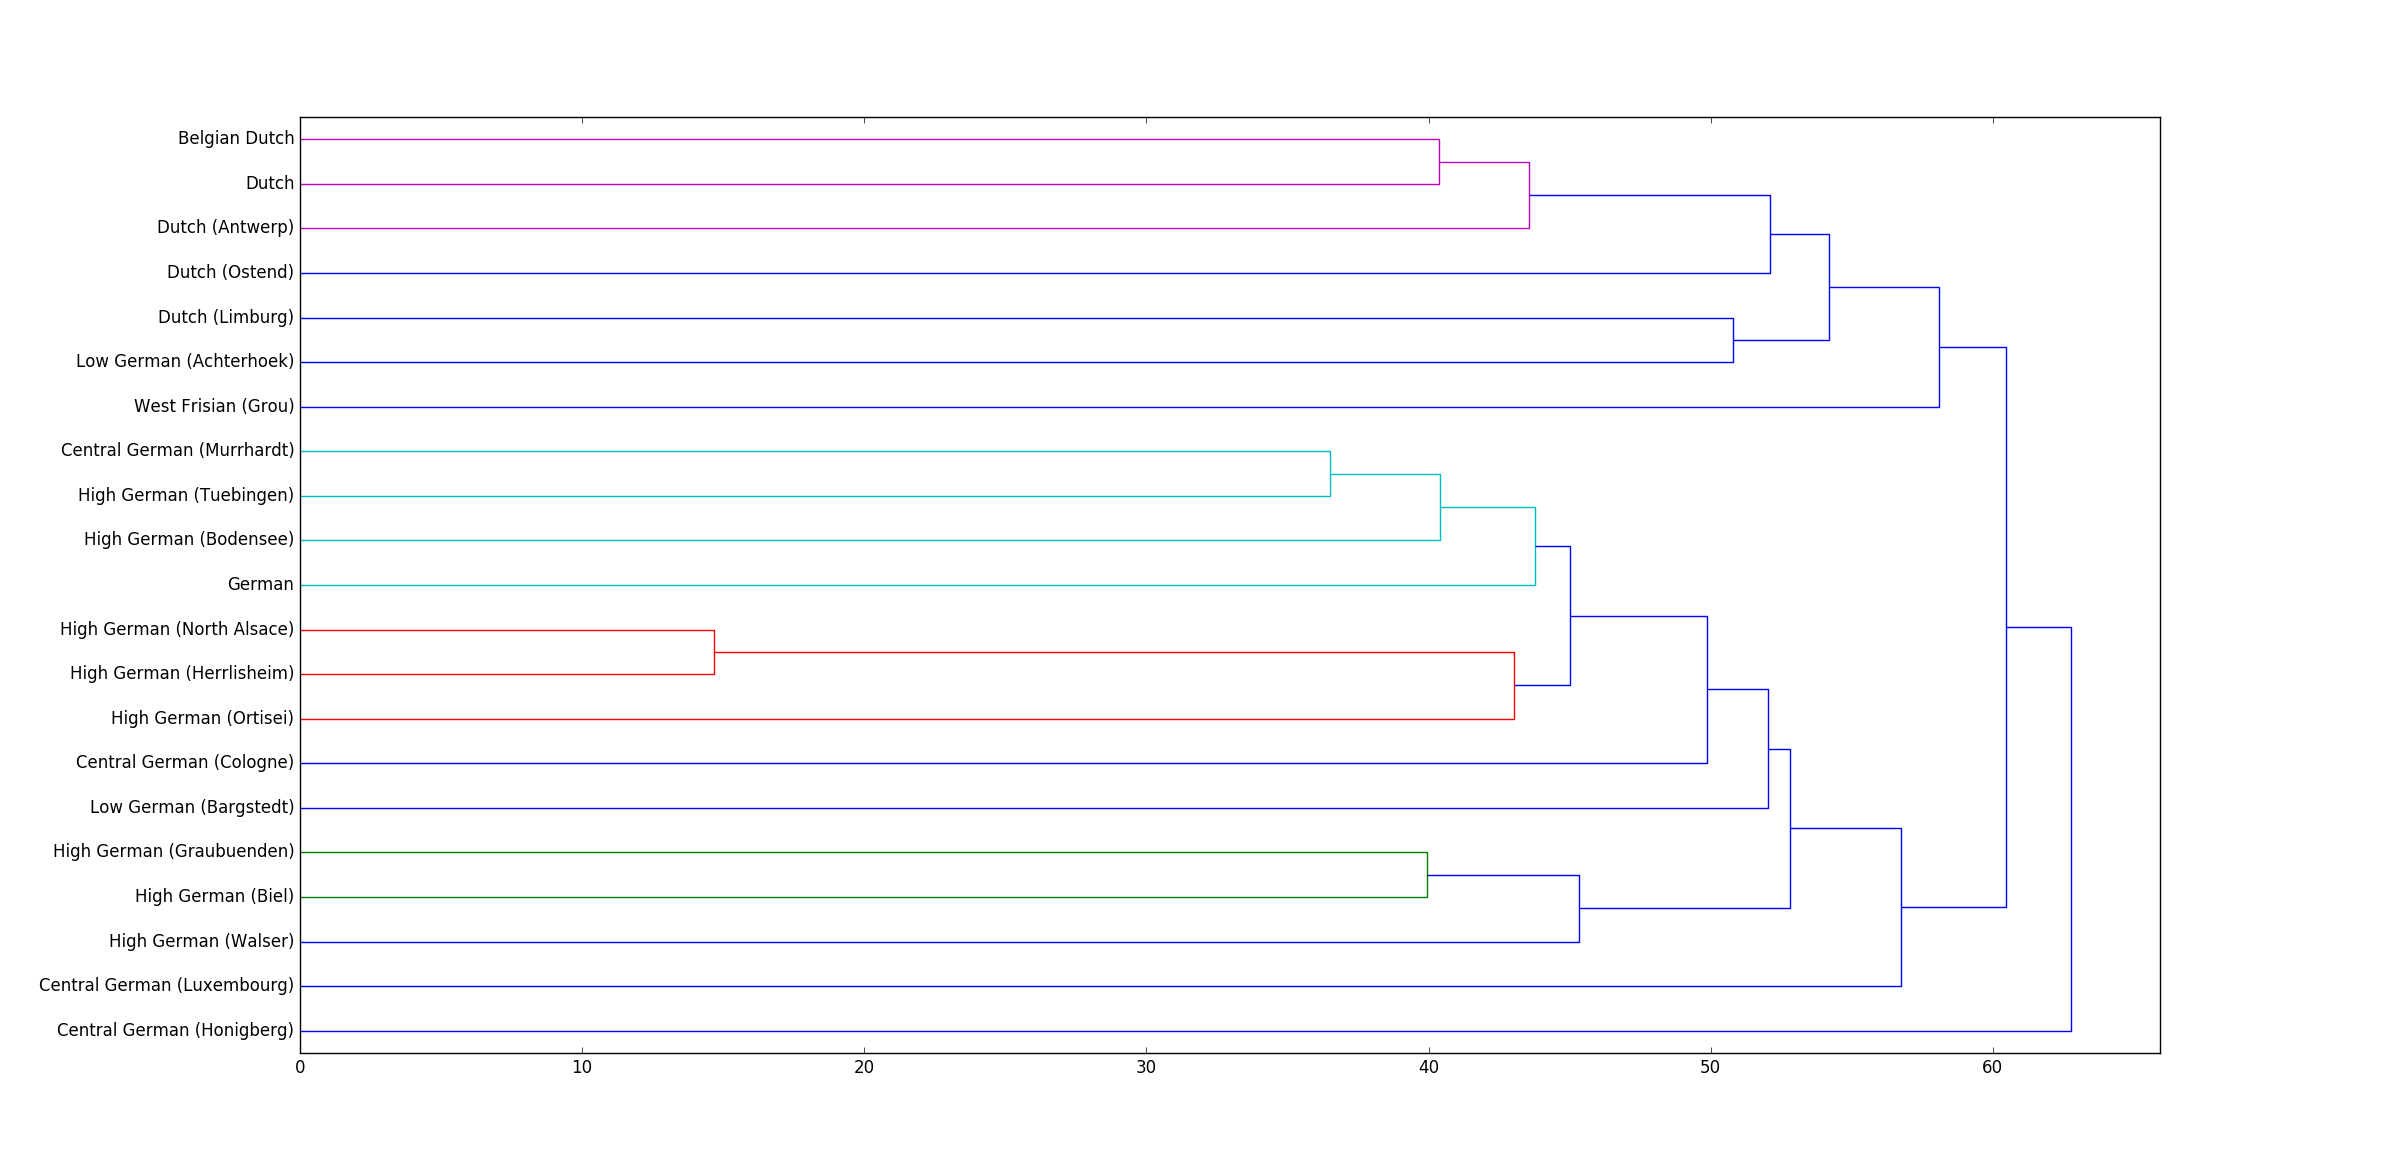
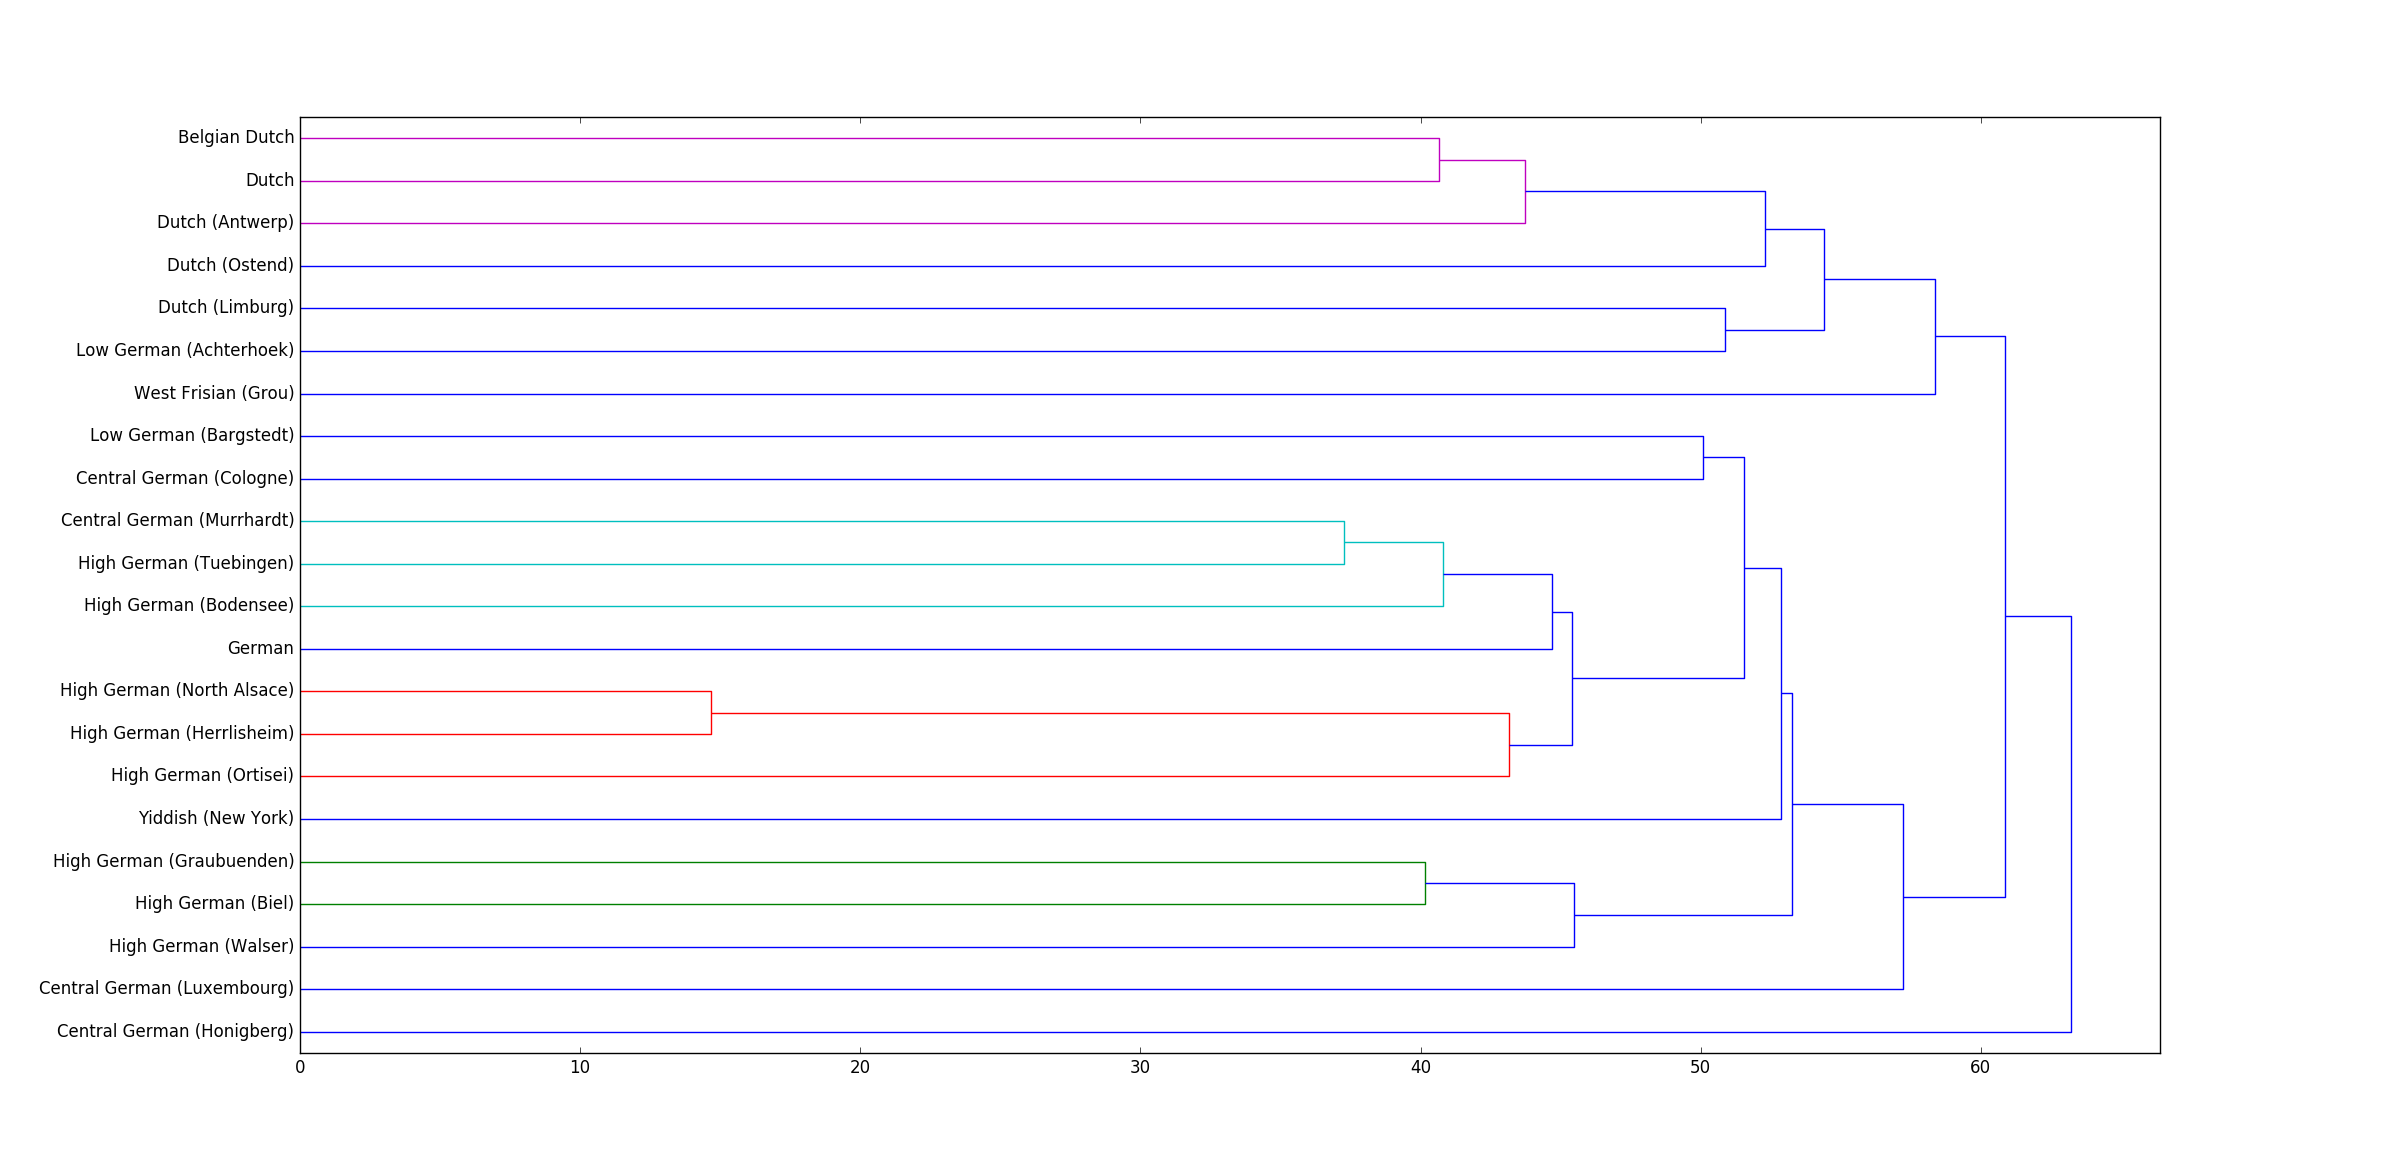
ignore missing words

diff --git a/cluster.py b/cluster.py
@@ -66,14 +66,17 @@ def parse_file(filename):
             variant = cells[0].replace('.', '')
             if variant in VARIANTS:
                 entries[variant] = tokens2vec(cells[1:])
+            elif variant == 'LOCAL':
+                word_length = len(tokens2vec(cells[1:]))
         for variant in VARIANTS:
             try:
                 entries[variant]
             except KeyError:
                 # TODO: Variant is missing from the file.
                 print('{} has no entry for {}.'.format(variant, concept))
-                entries[variant] = tokens2vec(['-' for _ in range(len(cells) - 1)])
-    return entries
+                # entries[variant] = [None for _ in range(len(cells) - 1)]
+                entries[variant] = None
+    return entries, word_length
 
 
 def tokens2vec(tokens):
@@ -89,19 +92,30 @@ def tokens2vec(tokens):
     return segs
 
 
-def distance(dialect1, dialect2):
+def distance(dialect1, dialect2, ignore_missing_entries=True):
     assert len(dialect1) == len(dialect2)
     len_vecs = 0
     dist = 0
     for vec1, vec2 in zip(dialect1, dialect2):
         if vec1 is None and vec2 is None:
+            # Neither dialect has an entry for the concept.
             continue
-        len_vecs += 1
         if vec1 is None or vec2 is None:
-            # TODO: should gaps be penalized this heavily?
-            dist += LEN_IPA_VEC
-            continue
-        dist += scipy.spatial.distance.cityblock(vec1, vec2)
+            if ignore_missing_entries:
+                continue
+            # TODO
+
+        for seg1, seg2 in zip(vec1, vec2):
+            len_vecs += 1
+            if seg1 is None and seg2 is None:
+                # Ignore gap-gap alignments.
+                continue
+            if seg1 is None or seg2 is None:
+                # TODO: should gaps be penalized this heavily?
+                dist += LEN_IPA_VEC
+                continue
+            dist += scipy.spatial.distance.cityblock(seg1, seg2)
+
     len_vecs *= LEN_IPA_VEC
     return dist / len_vecs
 
@@ -158,17 +172,26 @@ def distance_matrix(samples, n_samples, visualize=True):
     return dist_matrix
 
 
-def flatten_matrix(samples):
-    # Flatten the matrix to 2D and replace None segments.
+def flatten_matrix(samples, word_lengths):
+    # Flattens the matrix to 2D and replaces None segments.
     samples_flat = []
     for dialect in samples:
-        vec_long = []
-        for vec in dialect:
-            if vec is None:
-                vec_long += numeric_null_segment()
-            else:
-                vec_long += vec
-        samples_flat.append(vec_long)
+        vec_dialect = []
+        i = 0
+        for word in dialect:
+            i += 1
+            vec_word = []
+            if word is None:
+                # TODO check if this changes the actual matrix.
+                word = [numeric_null_segment()
+                        for _ in range(word_lengths[i - 1])]
+            for vec in word:
+                if vec is None:
+                    vec_word += numeric_null_segment()
+                else:
+                    vec_word += vec
+            vec_dialect += vec_word
+        samples_flat.append(vec_dialect)
 
     # Convert to NumPy array.
     n_features = len(samples_flat[0])
@@ -197,22 +220,24 @@ def cluster(samples, method='average', visualize=True):
 
 # Represent the dialects as feature vectors.
 entries = {}
+word_lengths = []
 for root, dirs, files in os.walk(DATA_DIR):
     for f in files:
         if f.endswith('.msa'):
-            subentries = parse_file(os.path.join(root, f))
+            subentries, word_length = parse_file(os.path.join(root, f))
             if subentries is None:
                 continue
             for e in subentries:
                 try:
-                    entries[e] += subentries[e]
+                    entries[e].append(subentries[e])
                 except KeyError:
-                    entries[e] = subentries[e]
+                    entries[e] = [subentries[e]]
+            word_lengths.append(word_length)
 
 
 # Create a distance matrix.
 n_samples = len(VARIANTS)
 samples = [entries[v] for v in VARIANTS]
 distance_matrix(samples, n_samples)
-samples = flatten_matrix(samples)
+samples = flatten_matrix(samples, word_lengths)
 cluster(samples)

diff --git a/README.md b/README.md
@@ -11,6 +11,7 @@ The BDPA contains a list of 111 cognate sets across 21 German/Dutch dialects, tr
     - If I add just one or two dialects, manual alignment might be worthwhile.
 - Possibly also check to what extend I might be able to use data from the Alignments of the Phonetischer Atlas von Deutschland (PAD) (prokic2018alignments), the Indo-European Lexical Cognacy Database (IELex) (dunn2012indo-european), the Morfologische Atlas van de Nederlandse Dialecten (MAND) (goemannodatemorfologische), or the Dynamische Syntactische Atlas van de Nederlandse Dialecten (DynaSAND) (barbiersnodatedynamische). Of course, for all of these, the transcription standards would probably differ from what I currently use.
 - Maybe check if the non-IPA phonetic transcriptions of the Norwegian and Swedish parts of the [Nordic Dialect Corpus](http://www.tekstlab.uio.no/nota/scandiasyn/) are compatible with one another.
+- The only difference between "High German (Herrlisheim)" and "High German (North Alsace)" is a slightly different coverage of entries. (That makes sense, since they seem to be derived from the same wordlist of Heggarty's.) Figure out if one is the subset of the other, else merge them?
 
 ## Current implementation 
 
@@ -27,8 +28,8 @@ Out of curiosity, I created a second dendrogram for all doculects (except for Pr
 
 - Improve the feature vector conversion & distance measure:
   - [ ] Deal with diphthongs.
-  - [x] If two dialects share a gap segment in an aligned entry, don't let that facture into the distance score. Changed the scores in the distance matrix, but didn't change the dendrogram.
-  - [ ] If an entry is missing for one of the words, should that entry be ignored for the distance measure? (In nerbonne1996phonetic missing entries are ignored, but I think I read other papers (which?) that didn't ignore such cases.)
+  - [x] If two dialects share a gap segment in an aligned entry, don't let that facture into the distance score. (Currently only applies to the distance matrix.)
+  - [x] If an entry is missing for one of the words, should that entry be ignored for the distance measure? (In nerbonne1996phonetic missing entries are ignored, but I think I read other papers (which?) that didn't ignore such cases.) (Currently only applies to the distance matrix.)
   - Appropriate gap penalization.
 - Try out different distance measures and clustering algorithms:
   - heeringa2006evaluation present and evaluate a bunch of different alignment/distance scoring strategies, such as including n-grams for phonetic context. See also nerbonne1997measuring.
@@ -37,7 +38,9 @@ Out of curiosity, I created a second dendrogram for all doculects (except for Pr
   - There are implementations where the focus is also on the features that distinguish dialect groups (prokic2012detecting, nerbonne2006identifying, wieling2011bipartite)
 - average per-word distance, average per-dialect distance, standard error, significance level (see nerbonne1996phonetic)
 - Figure out why LingPy crashes when trying to create a dendrogram from the data.
+- Depending on how the clustering algorithms work, shuffling the order of the dialects might result in a slightly different cluster hierarchy.
 - All of this is about the number of differences. It would also be interesting to consider the number of regular correspondences vs. unpredicatable correspondences/differences.
+  - Is the size of the data sufficient for extracting regular sound correspondences?
 
 ## Evaluation
 
